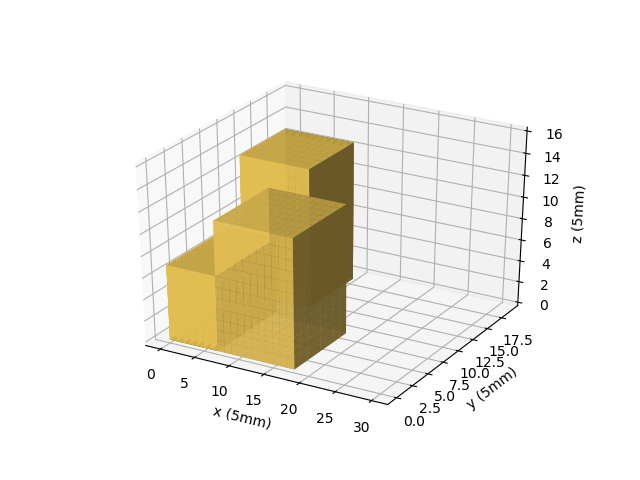
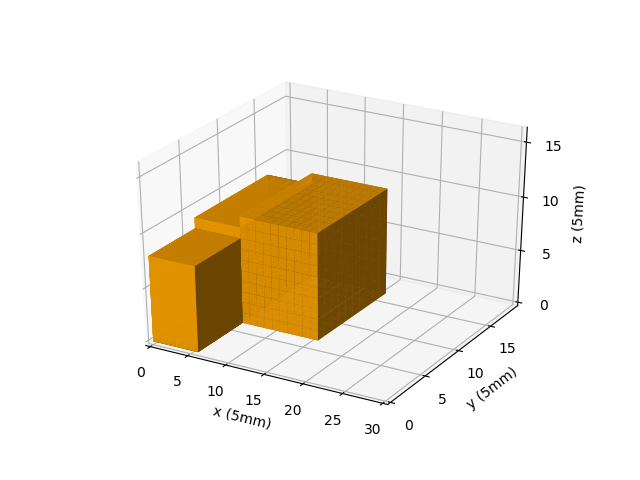
axis settings for visualization

diff --git a/visualize.py b/visualize.py
@@ -21,29 +21,48 @@ def gifGenerator(filenames):
 
 def visualize(seq, container_size, x_pos, y_pos, z_pos, a_len, b_len, c_len, shrink_ratio=5):
 
-    if shrink_ratio != 1:
-        shrink = lambda li: list(map(lambda length: int(length/shrink_ratio), li))
-        container_size = shrink(container_size)
-        x_pos, y_pos, z_pos = shrink(x_pos), shrink(y_pos), shrink(z_pos)
-        a_len, b_len, c_len = shrink(a_len), shrink(b_len), shrink(c_len)
+    # shrink
+    shrink = lambda li: list(map(lambda length: int(length/shrink_ratio), li))
+    container_size = shrink(container_size)
+    x_pos, y_pos, z_pos = shrink(x_pos), shrink(y_pos), shrink(z_pos)
+    a_len, b_len, c_len = shrink(a_len), shrink(b_len), shrink(c_len)
 
     fig = plt.figure()
     ax = fig.gca(projection='3d')
-    ax.set_xlabel("x (5mm)")
-    ax.set_ylabel("y (5mm)")
-    ax.set_zlabel("z (5mm)")
-    filled = np.zeros(tuple(container_size), dtype=bool)
+    ax.set_xlabel('x (%dmm)'%shrink_ratio)
+    ax.set_ylabel('y (%dmm)'%shrink_ratio)
+    ax.set_zlabel('z (%dmm)'%shrink_ratio)
+    ax.set_xlim3d(0.0, container_size[0])
+    ax.set_ylim3d(0.0, container_size[1])
+    ax.set_zlim3d(0.0, container_size[2])
+    ax.set_xticks(range(0, container_size[0]+1, 5))
+    ax.set_yticks(range(0, container_size[1]+1, 5))
+    ax.set_zticks(range(0, container_size[2]+1, 5))
 
-    filenames = []
+    # empty the folder
     files = glob.glob('visualization/*')
     for f in files:
         os.remove(f)
+
+    # draw figures
+    color_packed = 'orange'
+    color_new = 'orangered'
+    filenames = []
+    filled = np.zeros(tuple(container_size), dtype=bool)
+    colors = np.empty(filled.shape, dtype=object)
     for i in range(len(seq)):
+        print(x_pos[seq[i]], x_pos[seq[i]] + a_len[seq[i]])
+        print(y_pos[seq[i]], y_pos[seq[i]] + b_len[seq[i]])
+        print(z_pos[seq[i]], z_pos[seq[i]] + c_len[seq[i]])
         filled[x_pos[seq[i]]:x_pos[seq[i]] + a_len[seq[i]], y_pos[seq[i]]:y_pos[seq[i]] + b_len[seq[i]], z_pos[seq[i]]:z_pos[seq[i]] + c_len[seq[i]]] = True
-        ax.voxels(filled, facecolors='#FFD65DC0', alpha=0.8)
+        colors[x_pos[seq[i]]:x_pos[seq[i]] + a_len[seq[i]], y_pos[seq[i]]:y_pos[seq[i]] + b_len[seq[i]], z_pos[seq[i]]:z_pos[seq[i]] + c_len[seq[i]]] = color_packed # color_new
+        ax.voxels(filled, facecolors=colors, alpha=0.9)
         filenames.append('visualization/%d.png'%i)
         plt.savefig(filenames[-1])
         print(filenames[-1], 'saved')
+        # colors[x_pos[seq[i]]:x_pos[seq[i]] + a_len[seq[i]], y_pos[seq[i]]:y_pos[seq[i]] + b_len[seq[i]], z_pos[seq[i]]:z_pos[seq[i]] + c_len[seq[i]]] = color_packed
+        
+
     gifGenerator(filenames)
 
 
@@ -56,5 +75,6 @@ if __name__ == "__main__":
     a_len = [55, 35, 50, 65, 55, 35]
     b_len = [55, 55, 35, 35, 40, 45]
     c_len = [55, 50, 65, 55, 60, 35]
+    seq = range(len(x_pos))
 
     imgs = visualize(seq, container_size, x_pos, y_pos, z_pos, a_len, b_len, c_len, shrink_ratio=5)

diff --git a/packing_gurobi.py b/packing_gurobi.py
@@ -243,7 +243,7 @@ def packing(container_size, item_size, enlarge=False, visualization=False):
         # visualize
         if visualization:
             seq = list(map(lambda item : item[0], item_info))
-            visualize(seq, container_size, x_pos, y_pos, z_pos, a_len, b_len, c_len, shrink_ratio=1)
+            visualize(seq, container_size, x_pos, y_pos, z_pos, a_len, b_len, c_len, shrink_ratio=5)
             for i in range(n_item):
                 print(i)
                 print('%.1f'%x[i].x, "-", '%.1f'%(x[i].x + a[i].x))
@@ -258,7 +258,7 @@ def packing(container_size, item_size, enlarge=False, visualization=False):
 
 if __name__ == "__main__":
 
-    item_info = packing(container_size, item_size, enlarge=True, visualization=True)
+    item_info = packing(container_size, item_size, enlarge=False, visualization=True)
     for item in item_info:
         seq, x, y, z, [o1, o2, o3] = item
         print(seq, '%.1f'%x, '%.1f'%y, '%.1f'%z, [o1, o2, o3])

diff --git a/param.py b/param.py
@@ -55,3 +55,7 @@ item_size = [[50, 50, 60, 60, 55, 40], [50, 45, 45, 50, 50, 30], [50, 30, 30, 30
 # margin = 5
 # container_size = [180, 130, 100]
 # item_size = [[3, 2, 1, 3, 4, 6, 9, 1, 8, 7], [3, 2, 1, 2, 8, 1, 7, 9, 10, 6], [3, 2, 1, 1, 2, 8, 1, 7, 9, 10]]
+
+# margin = 5
+# container_size = [10, 10, 10]
+# item_size = [[2, 2, 5], [5, 2, 2], [10, 10, 2]]
